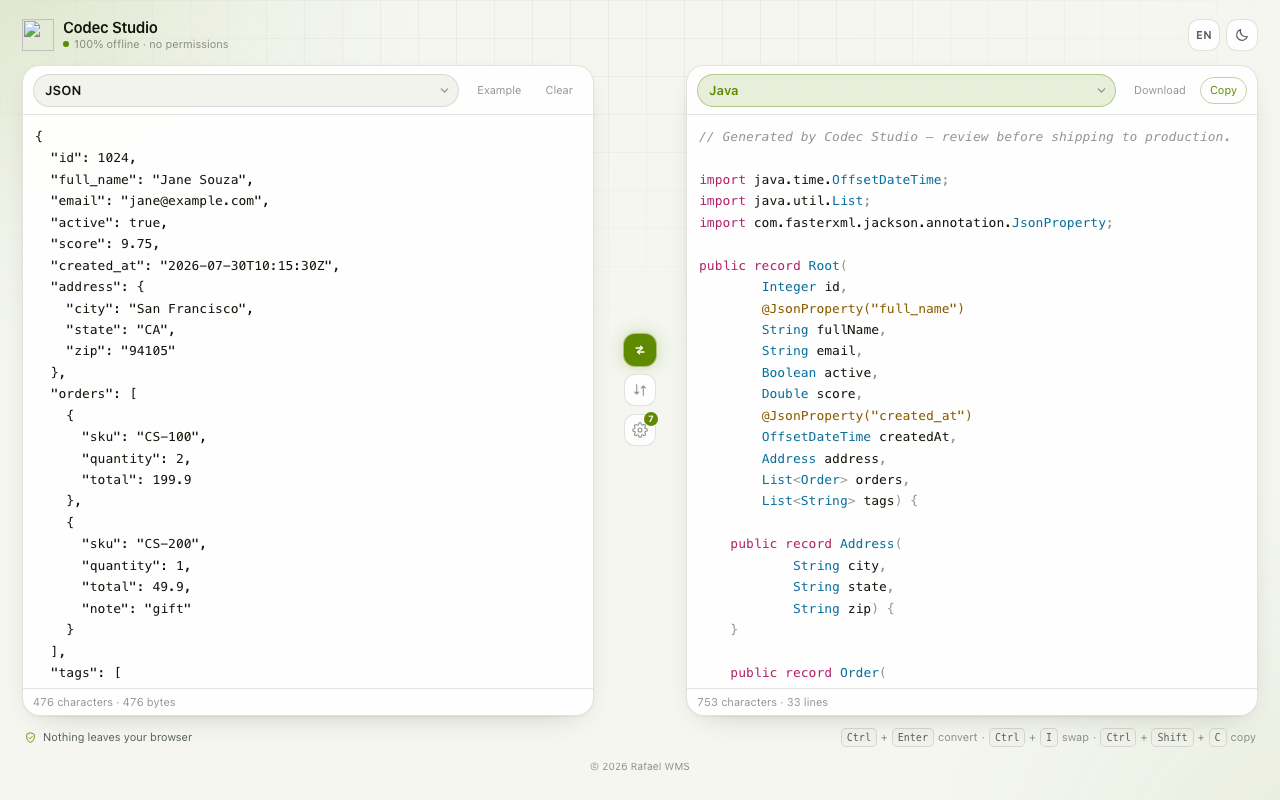
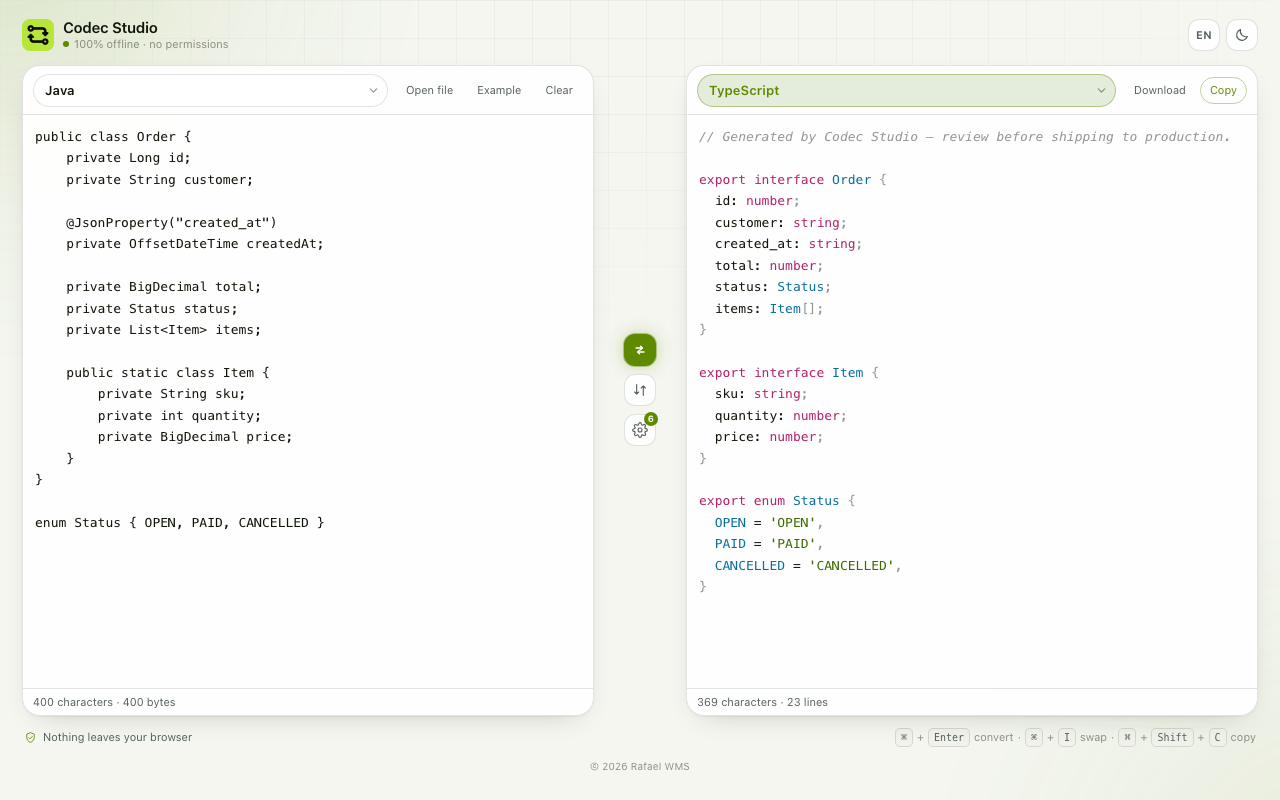
Refaz as imagens da loja para a 2.1.0
Atualiza capturas e tiles com a interface e a marca atuais, incluindo os novos
cenários de arquivos, e corrige o gerador, que estava defasado desde a 2.0.

diff --git a/press/demo-setup.js b/press/demo-setup.js
@@ -3,56 +3,67 @@
  *
  * Roda ANTES do main.js — módulos executam na ordem em que aparecem no HTML — então
  * grava as preferências que o app vai ler no boot. O restante acontece no
- * DOMContentLoaded: como main.js também é um módulo, ele já inicializou nesse ponto,
- * e o headless só captura depois do evento `load`. Tudo síncrono, sem timers, para a
- * captura nunca pegar a interface a meio caminho.
+ * DOMContentLoaded: como main.js também é um módulo, ele já inicializou nesse ponto.
+ * Carregar um arquivo é assíncrono, então a página avisa em `window.__demoReady`
+ * quando pode ser capturada.
  *
- * Parâmetros: ?tool=&theme=&direction=&style=&values=&sample=no&text=
+ * Parâmetros: ?from=&to=&theme=&lang=&style=&text=&file=&fileName=
  */
 
 const params = new URLSearchParams(location.search);
-const tool = params.get('tool') || 'base64';
+const to = params.get('to') || 'java';
 
-const prefs = { theme: params.get('theme') || 'dark', tool };
-if (params.get('lang')) prefs.language = params.get('lang');
-const toolPrefs = {};
-for (const key of ['direction', 'style', 'values', 'alphabet']) {
-  const value = params.get(key);
-  if (value) toolPrefs[key] = value;
-}
-for (const key of ['padding', 'wrap', 'strict', 'jackson', 'primitives', 'dateTypes', 'separateFiles']) {
-  const value = params.get(key);
-  if (value !== null) toolPrefs[key] = value === 'true';
-}
-if (Object.keys(toolPrefs).length) prefs[tool] = toolPrefs;
-
+const prefs = {
+  theme: params.get('theme') || 'dark',
+  language: params.get('lang') || 'en',
+  from: params.get('from') || 'json',
+  to,
+  options: params.get('style') ? { [to]: { style: params.get('style') } } : {},
+};
 localStorage.setItem('codec-studio:prefs:v1', JSON.stringify(prefs));
 
 // Congela animações: sem isso a captura pode pegar a aurora ou a revelação do
-// resultado a meio quadro (e o relógio virtual do headless nunca fica ocioso).
+// resultado a meio quadro.
 const freeze = document.createElement('style');
 freeze.textContent = `
   *, *::before, *::after { animation: none !important; transition: none !important; }
-  /* Só a máscara de revelação do resultado sai; as demais (grade de fundo, fade da
-     barra de opções) fazem parte do visual e devem aparecer na captura. */
+  /* Só a máscara de revelação do resultado sai; o resto faz parte do visual. */
   .editor--output { mask-image: none !important; }
+  .toast { display: none !important; }
 `;
 
-document.addEventListener('DOMContentLoaded', () => {
-  const text = params.get('text');
+const nextFrame = () => new Promise((done) => setTimeout(done, 50));
 
-  if (text !== null) {
+async function loadDemoFile(path, name) {
+  const blob = await (await fetch(path)).blob();
+  const transfer = new DataTransfer();
+  transfer.items.add(new File([blob], name, { type: blob.type }));
+  const input = document.querySelector('#file-input');
+  input.files = transfer.files;
+  input.dispatchEvent(new Event('change'));
+  while (!document.querySelector('#output').textContent) await nextFrame();
+}
+
+document.addEventListener('DOMContentLoaded', async () => {
+  document.head.append(freeze);
+
+  const text = params.get('text');
+  if (params.get('file')) {
+    await loadDemoFile(params.get('file'), params.get('fileName') || 'file');
+  } else if (text !== null) {
     document.querySelector('#input').value = text;
     document.querySelector('[data-action="convert"]').click(); // converte de forma síncrona
-  } else if (params.get('sample') !== 'no') {
+  } else {
     document.querySelector('[data-action="sample"]').click();
   }
 
-  document.head.append(freeze);
+  await Promise.all([...document.images].filter((image) => !image.hidden).map((image) => image.decode().catch(() => {})));
+
   document.querySelector('#output').classList.remove('is-revealing');
   document.querySelector('#output-panel').classList.remove('is-converting');
   document.activeElement?.blur(); // o cursor piscando apareceria na captura
 
-  // O headless usa relógio virtual e mede 0,00 ms: melhor vazio do que um número irreal.
+  // A medição seria de uma execução de demonstração: melhor vazio do que um número sem sentido.
   document.querySelector('#timing').textContent = '';
+  window.__demoReady = true;
 });

diff --git a/press/tile.html b/press/tile.html
@@ -1,5 +1,5 @@
 <!DOCTYPE html>
-<html lang="pt-BR">
+<html lang="en">
 <head>
 <meta charset="utf-8">
 <title>Codec Studio — tile promocional</title>
@@ -13,8 +13,8 @@
     display: grid;
     place-items: center;
     font-family: system-ui, -apple-system, "Segoe UI", Roboto, sans-serif;
-    color: #eaf2ff;
-    background: #070b14;
+    color: #ffffff;
+    background: #121212;
   }
 
   .tile {
@@ -29,9 +29,9 @@
     padding: 28px;
     overflow: hidden;
     background:
-      radial-gradient(120% 90% at 12% 8%, rgba(62, 240, 212, 0.42), transparent 58%),
-      radial-gradient(110% 95% at 88% 92%, rgba(123, 140, 255, 0.46), transparent 60%),
-      linear-gradient(150deg, #0a1224, #0e1830 55%, #0a1526);
+      radial-gradient(90% 90% at 8% 4%, rgba(179, 230, 0, 0.30), transparent 60%),
+      radial-gradient(90% 90% at 94% 98%, rgba(179, 230, 0, 0.16), transparent 62%),
+      #121212;
   }
 
   /* Grade técnica sutil ao fundo */
@@ -40,8 +40,8 @@
     position: absolute;
     inset: 0;
     background-image:
-      linear-gradient(to right, rgba(233, 240, 255, 0.06) 1px, transparent 1px),
-      linear-gradient(to bottom, rgba(233, 240, 255, 0.06) 1px, transparent 1px);
+      linear-gradient(to right, rgba(255, 255, 255, 0.05) 1px, transparent 1px),
+      linear-gradient(to bottom, rgba(255, 255, 255, 0.05) 1px, transparent 1px);
     background-size: 34px 34px;
     mask-image: radial-gradient(ellipse 75% 75% at 50% 45%, #000 25%, transparent 78%);
   }
@@ -54,17 +54,14 @@
     font-weight: 650;
     letter-spacing: -0.02em;
     line-height: 1;
-    background: linear-gradient(100deg, #7ff5e2, #8fb4ff 60%, #cfa8ff);
-    -webkit-background-clip: text;
-    background-clip: text;
-    color: transparent;
+    color: #ffffff;
   }
 
   .subtitle {
     position: relative;
     font-size: 17px;
     font-weight: 500;
-    color: rgba(234, 242, 255, 0.72);
+    color: #c4c9d1;
     letter-spacing: 0.01em;
   }
 
@@ -75,19 +72,19 @@
     gap: 8px;
     padding: 7px 15px;
     border-radius: 999px;
-    border: 1px solid rgba(62, 240, 212, 0.42);
-    background: rgba(62, 240, 212, 0.12);
+    border: 1px solid rgba(179, 230, 0, 0.42);
+    background: rgba(179, 230, 0, 0.12);
     font-size: 13px;
     font-weight: 550;
-    color: #9ff5e4;
+    color: #b3e600;
     white-space: nowrap;
   }
   .badge::before {
     content: '';
     width: 7px; height: 7px;
     border-radius: 50%;
-    background: #3ef0d4;
-    box-shadow: 0 0 10px #3ef0d4;
+    background: #b3e600;
+    box-shadow: 0 0 10px #b3e600;
   }
 
   /* ---- marquee 1400×560: layout horizontal, tipografia maior ---- */
@@ -107,24 +104,11 @@
 </head>
 <body>
   <div class="tile">
-    <svg class="mark" viewBox="0 0 128 128" aria-hidden="true">
-      <defs>
-        <linearGradient id="bg" x1="0" y1="0" x2="1" y2="1">
-          <stop offset="0%" stop-color="#3ef0d4"/>
-          <stop offset="55%" stop-color="#38b6f0"/>
-          <stop offset="100%" stop-color="#7b8cff"/>
-        </linearGradient>
-      </defs>
-      <rect x="4" y="4" width="120" height="120" rx="30" fill="url(#bg)"/>
-      <g fill="none" stroke="#0a1626" stroke-width="9" stroke-linecap="round" stroke-linejoin="round" opacity="0.92">
-        <path d="M34 50h50"/><path d="M72 38l12 12-12 12"/>
-        <path d="M94 78H44"/><path d="M56 66L44 78l12 12"/>
-      </g>
-    </svg>
+    <img class="mark" src="../icons/icon.svg" alt="">
     <div class="stack">
       <div class="title">Codec Studio</div>
-      <div class="subtitle">Base64 · JSON ⇄ Java</div>
-      <div class="badge">100% offline · sem permissões</div>
+      <div class="subtitle">Data, code and files</div>
+      <div class="badge">100% offline · no permissions</div>
     </div>
   </div>
 </body>
